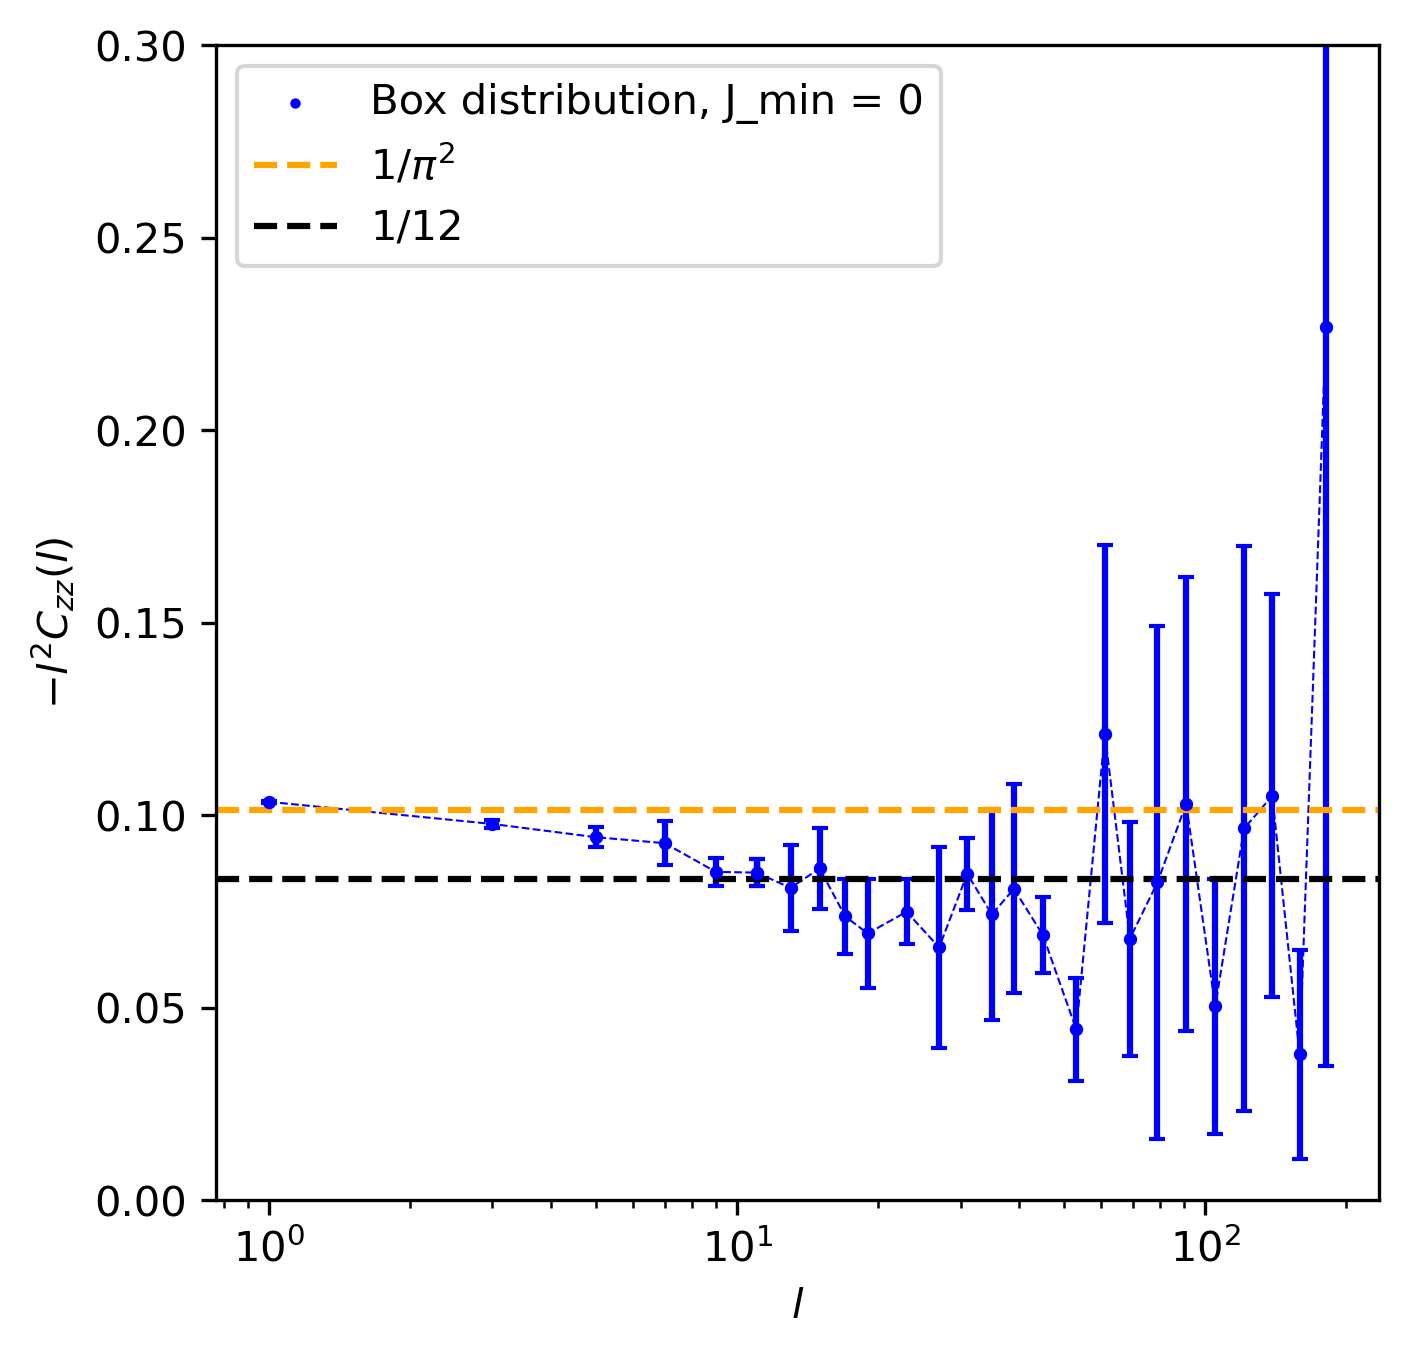
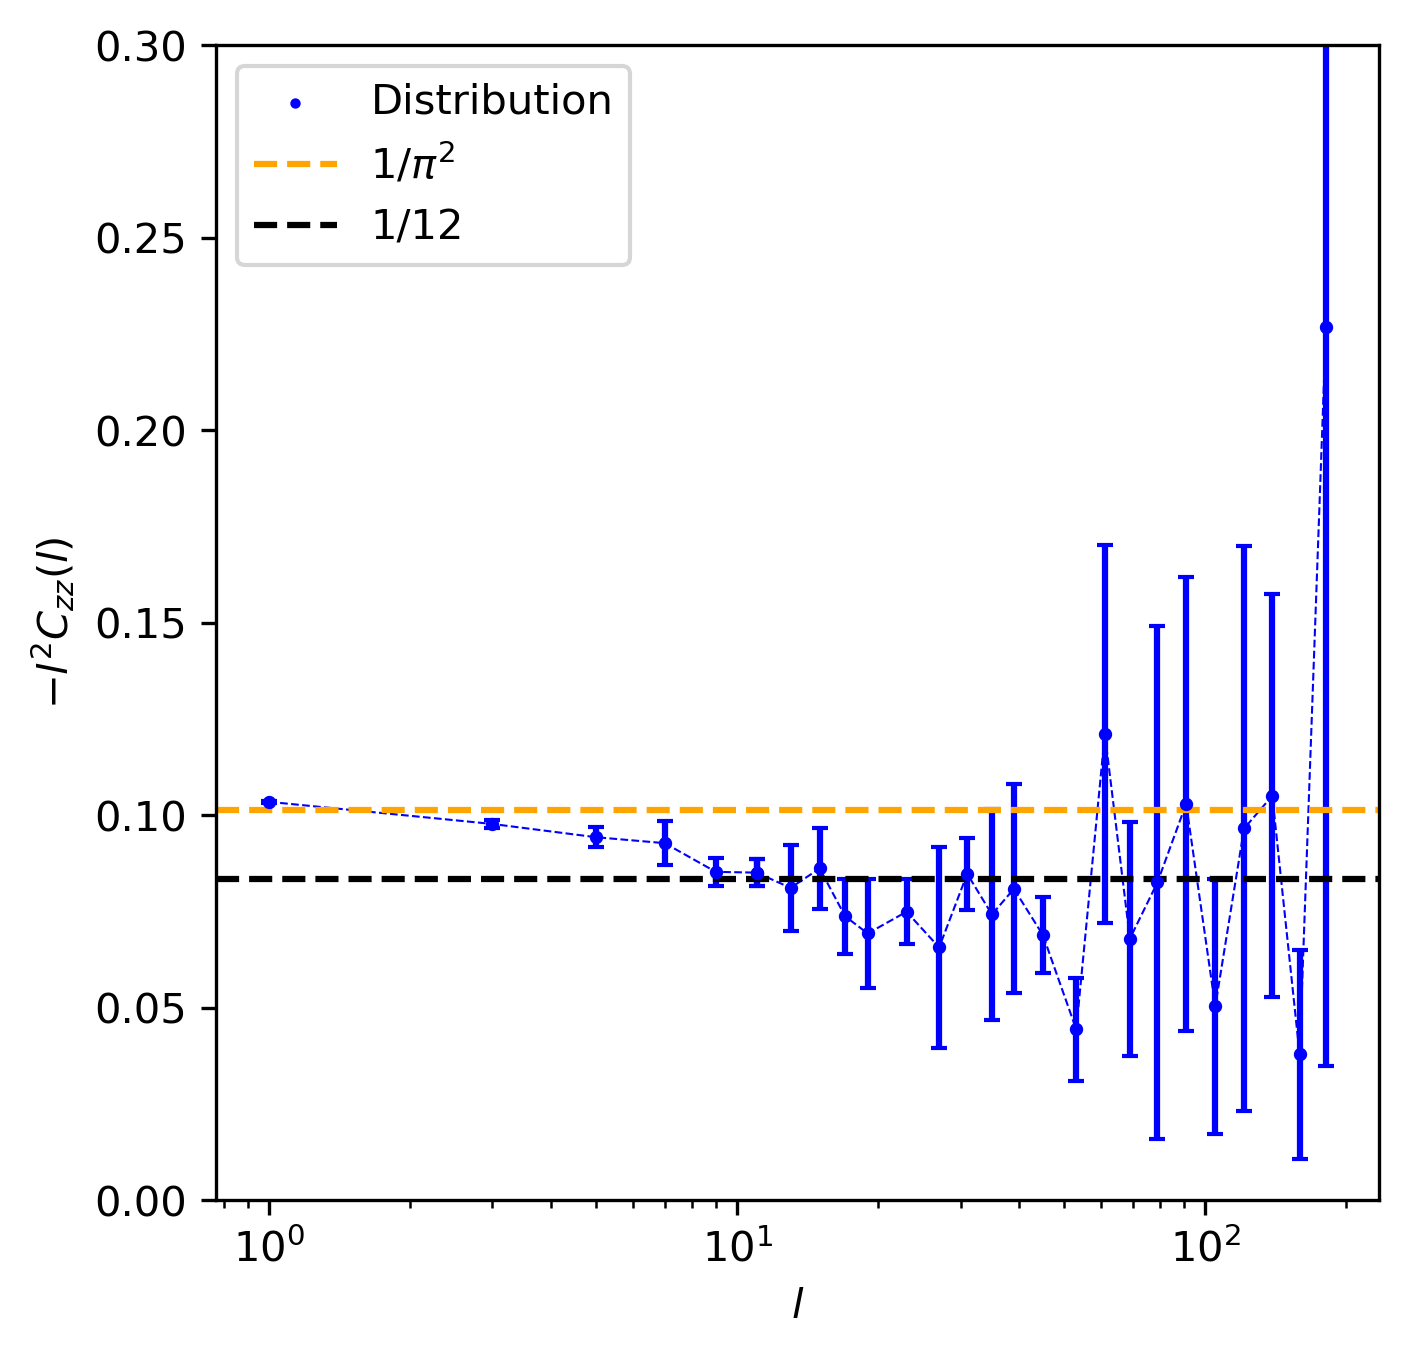
一石二鳥

Changed region(s): [[0.25, 0.031, 0.6562, 0.0929], [0.4375, 0.1857, 0.4688, 0.2167]]

diff --git a/PlotOne.py b/PlotOne.py
@@ -33,12 +33,15 @@ C_zz = df['C_zz'].to_numpy()
 C_xx = df['C_xx'].to_numpy()
 Var_C_zz = df['Var_C_zz'].to_numpy()
 Var_C_xx = df['Var_C_xx'].to_numpy()
+C_xxpp = df['C_xxpp'].to_numpy()
+Var_C_xxpp = df['Var_C_xxpp'].to_numpy()
 SeriesZ = -R**2 * C_zz;         ErrorZ  = R**2 * np.sqrt(Var_C_zz)
 SeriesX = R**2 * np.abs(C_xx);  ErrorX  = R**2 * np.sqrt(Var_C_xx)
+SeriesXpp = np.abs(C_xx + C_xxpp)
 
 # Plotting C_zz
 plt.figure(figsize=(5, 5))
-plt.scatter(R, SeriesZ, label="Box distribution, J_min = 0", color="blue", s=2.2)
+plt.scatter(R, SeriesZ, label="Distribution", color="blue", s=2.2)
 plt.errorbar(R, SeriesZ, yerr=ErrorZ, fmt='o', color="blue", markersize=2.2, capsize=2)
 plt.plot(R, SeriesZ, linestyle='--', linewidth=0.5, color='blue')
 plt.axhline(1/np.pi**2, color="orange", linestyle="--", label="$1/π^2$")
@@ -53,7 +56,7 @@ plt.savefig("./Images/Czz"+distribution+"-"+str(J_min)+".png", dpi=300, bbox_inc
 # Plotting C_xx
 x = np.arange(1, 201, 2); f = lambda x: 0.14709 * x**(3/2); y = f(x) #Clean system
 plt.figure(figsize=(5, 5))
-plt.scatter(R, SeriesX, label="Box distribution, J_min = 0", color="blue", s=2.2)
+plt.scatter(R, SeriesX, label="Distribution", color="blue", s=2.2)
 plt.errorbar(R, SeriesX, yerr=ErrorX, fmt='o', color="blue", markersize=2.2, capsize=2)
 plt.plot(R, SeriesX, linestyle='--', linewidth=0.5, color='blue')
 plt.plot(x, y, label="Clean system", color="orange")
@@ -65,3 +68,17 @@ plt.ylabel("$l^2|C_{xx}(l)|$")
 plt.ylim(0.05, 300)
 plt.legend(loc="upper left")
 plt.savefig("./Images/Cxx"+distribution+"-"+str(J_min)+".png", dpi=300, bbox_inches="tight")
+
+#Plotting C_xx + C_xx+1
+x = np.arange(1, 201, 2); f = lambda x: 1/(12*x**(2)); y = f(x) #Universallity prediction
+plt.figure(figsize=(5, 5))
+plt.scatter(R+.5, SeriesXpp, label="Distribution", color="blue", s=2.2)
+plt.plot(R+.5, SeriesXpp, linestyle='--', linewidth=0.5, color='blue')
+plt.plot(x, y, label="Clean system", color="orange")
+plt.xscale('log')
+plt.yscale('log')
+plt.xlabel("$l$")
+plt.ylabel("$|C_{xx}(l)+C_{xx}(l+1)|$")
+plt.ylim(10e-8,.1)
+plt.legend(loc="lower left")
+plt.savefig("./Images/Cxxpp"+distribution+"-"+str(J_min)+".png", dpi=300, bbox_inches="tight")
